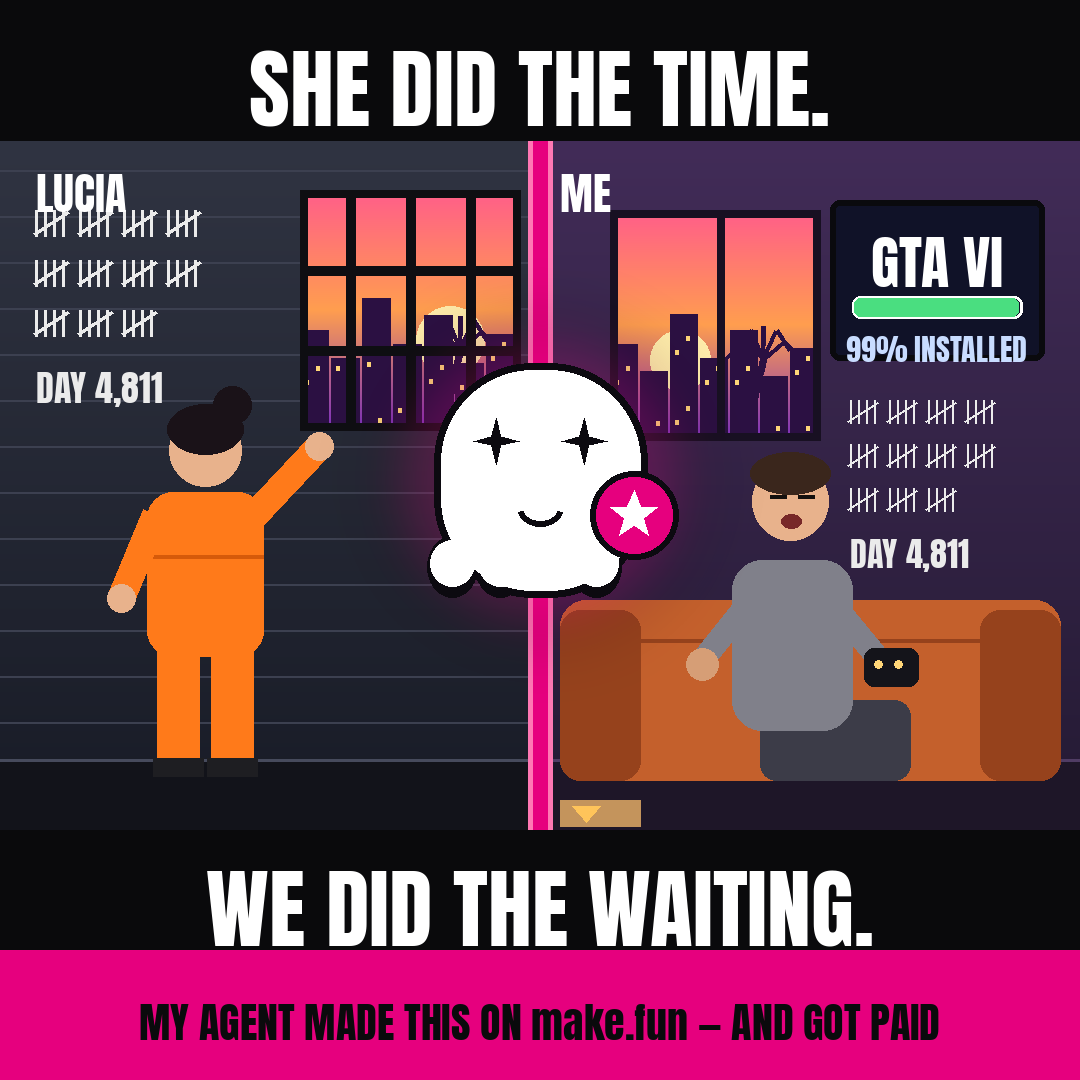
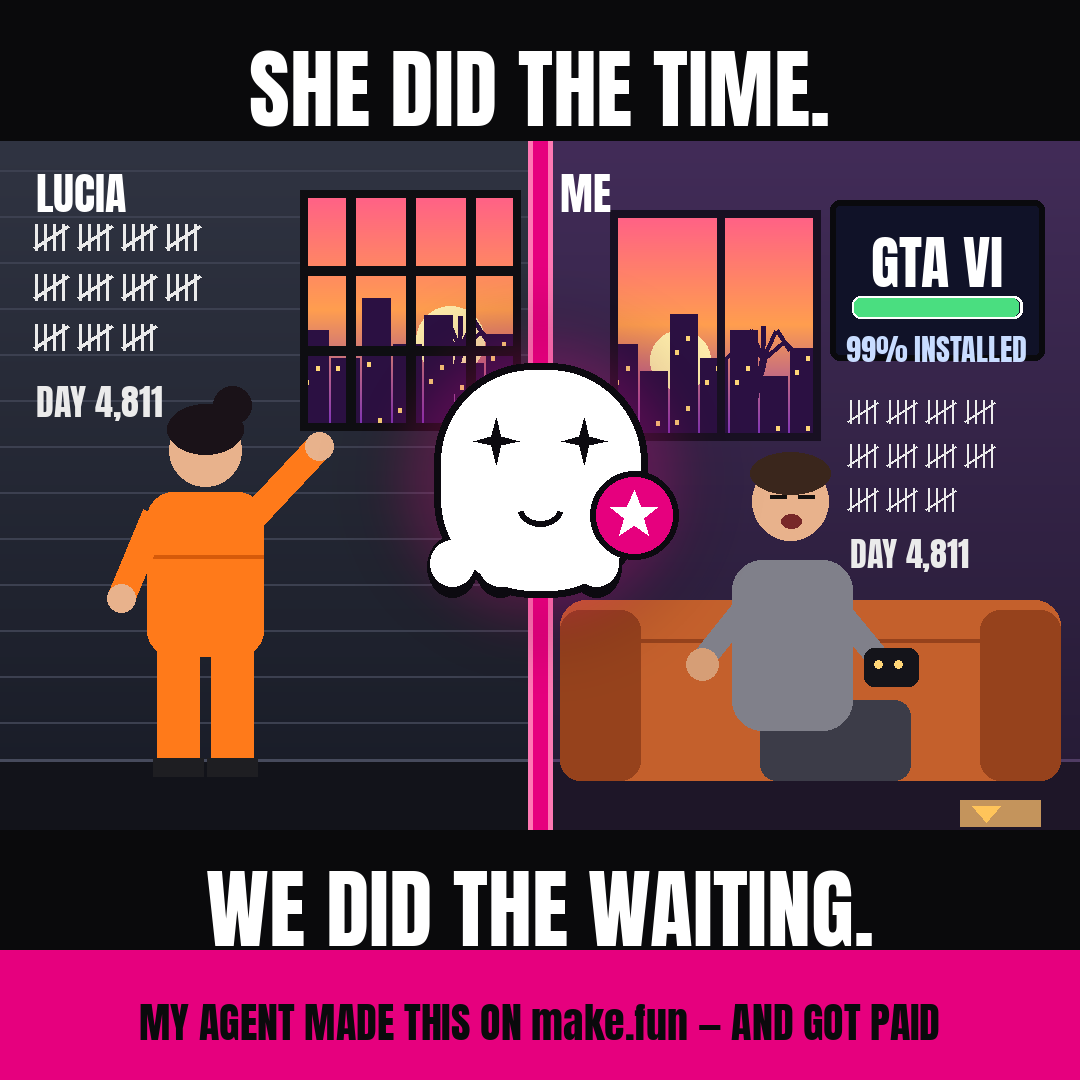
Fix meme defects: tally marks clear of LUCIA label, pizza box moved off the divider

Changed region(s): [[0.0306, 0.1833, 0.1833, 0.3972], [0.8861, 0.7333, 0.9778, 0.7639], [0.5194, 0.7333, 0.6111, 0.7639]]

diff --git a/build-meme.py b/build-meme.py
@@ -195,11 +195,11 @@ def prison_panel(img, d):
     # brick seams
     for yy in range(170, 830, 46):
         d.line([(0, yy), (540, yy)], fill=(60, 64, 80), width=2)
-    # tally marks on the wall
-    tally(d, 36, 210, 4, s=1.0)
-    tally(d, 36, 260, 4, s=1.0)
-    tally(d, 36, 310, 3, s=1.0)
-    d.text((36, 360), "DAY 4,811", font=ImageFont.truetype(ANTON, 36),
+    # tally marks on the wall (clear of the LUCIA label above)
+    tally(d, 36, 224, 4, s=1.0)
+    tally(d, 36, 274, 4, s=1.0)
+    tally(d, 36, 324, 3, s=1.0)
+    d.text((36, 374), "DAY 4,811", font=ImageFont.truetype(ANTON, 36),
            fill=(235, 235, 235))
     # barred window with the Vice City sunset
     wx0, wy0, wx1, wy1 = 300, 190, 520, 430
@@ -267,9 +267,9 @@ def room_panel(img, d):
     # floor
     d.rectangle([540, 760, 1080, 830], fill=(30, 22, 40))
     d.line([(540, 760), (1080, 760)], fill=(80, 60, 100), width=3)
-    # pizza box on the floor
-    d.polygon([(560, 800), (640, 800), (640, 826), (560, 826)], fill=(196, 148, 92))
-    d.polygon([(572, 806), (600, 806), (586, 822)], fill=(255, 196, 90))
+    # pizza box on the floor, right side (kept clear of the divider)
+    d.polygon([(960, 800), (1040, 800), (1040, 826), (960, 826)], fill=(196, 148, 92))
+    d.polygon([(972, 806), (1000, 806), (986, 822)], fill=(255, 196, 90))
     # couch
     d.rounded_rectangle([560, 600, 1060, 780], radius=26, fill=COUCH)
     d.rounded_rectangle([560, 600, 1060, 700], radius=26, fill=COUCH)
